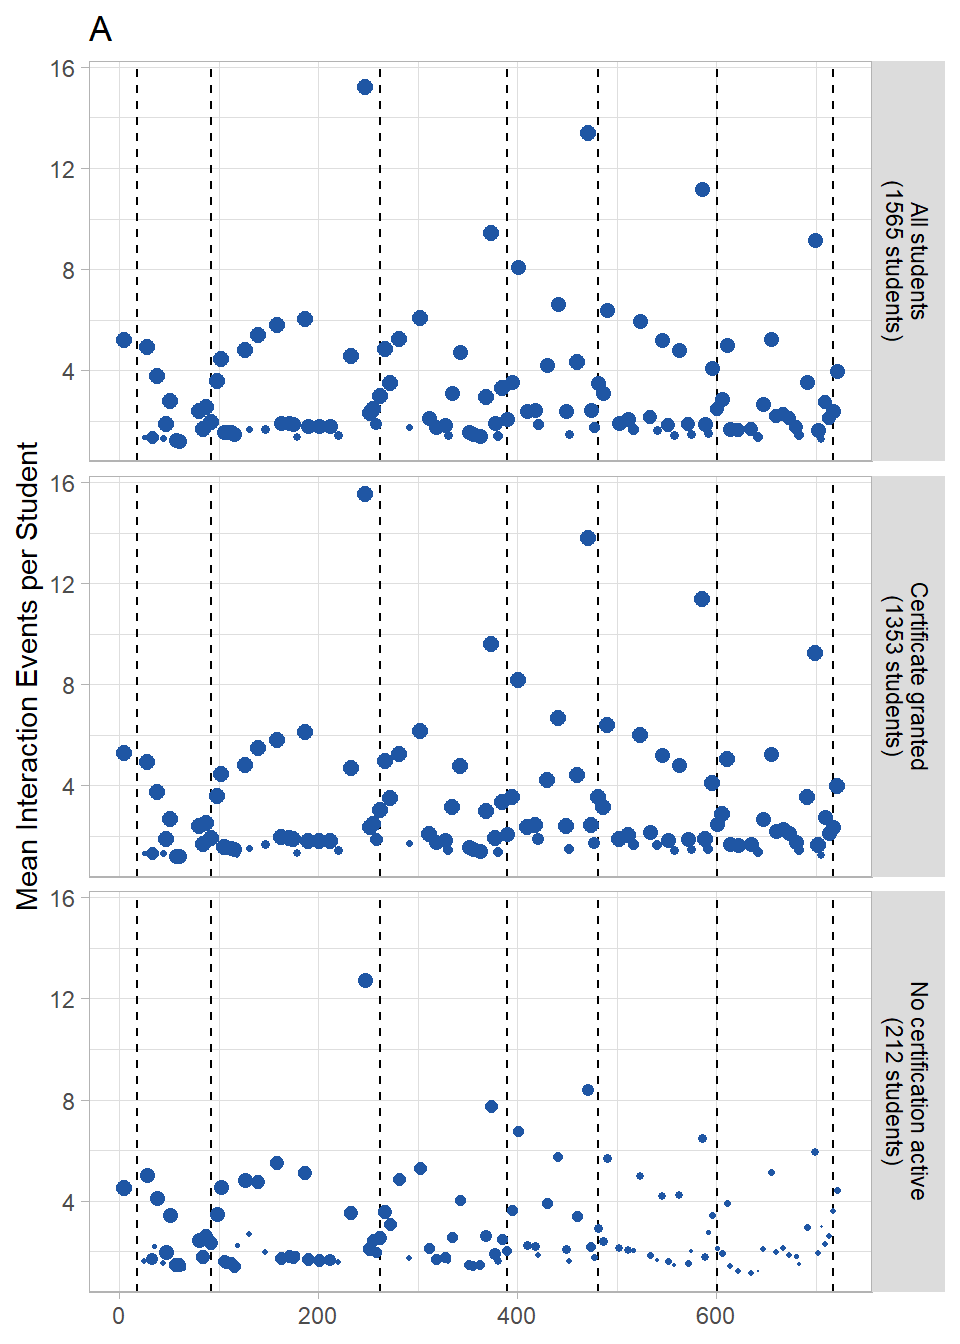
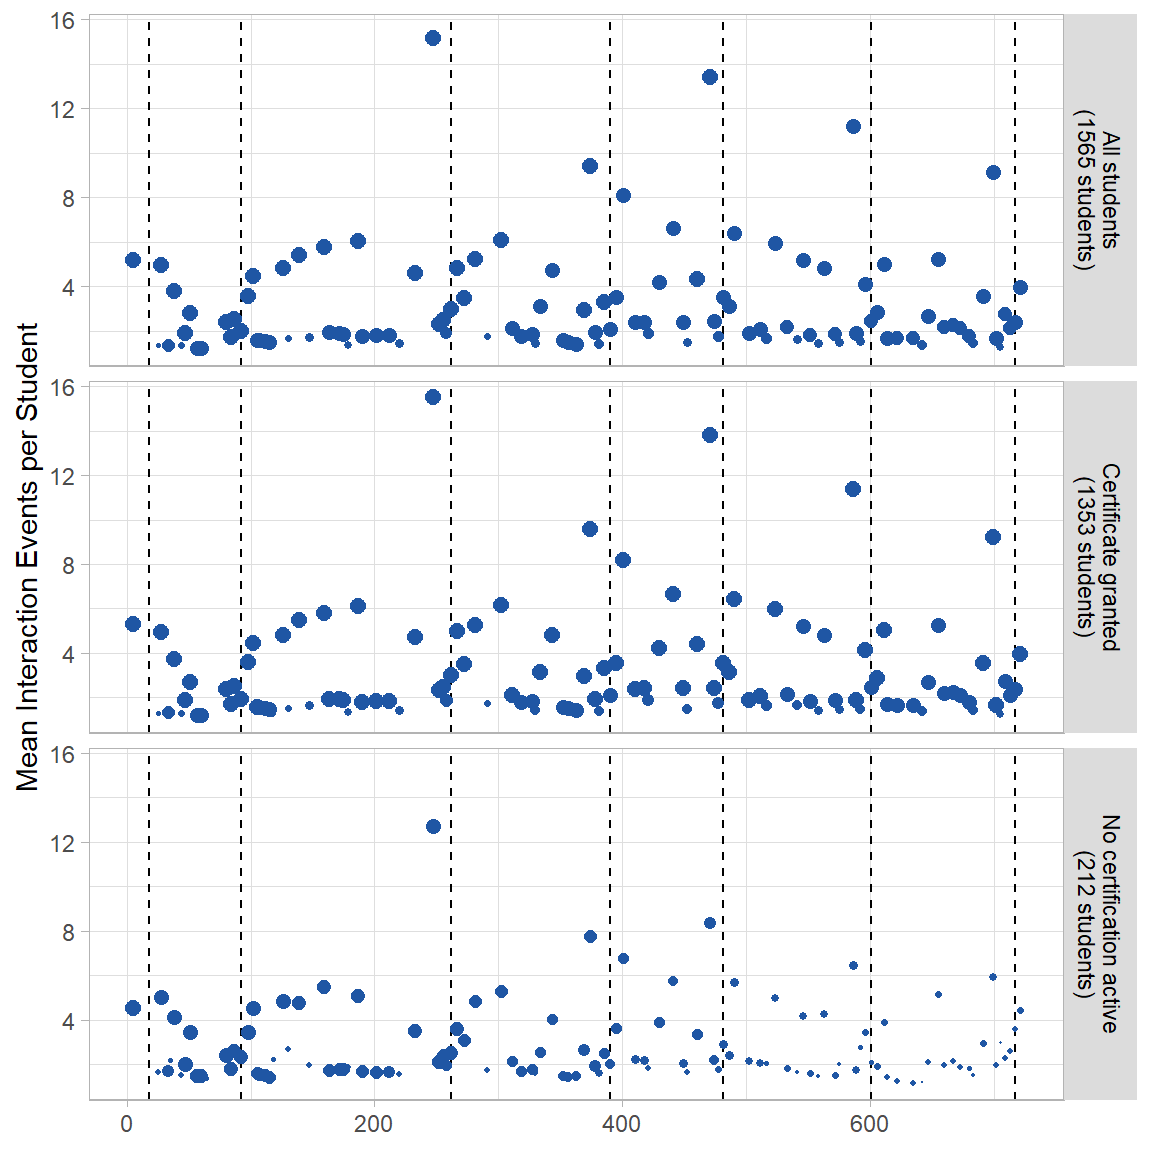
Updates fig 5

diff --git a/docs/edx-8-figure4and5.html b/docs/edx-8-figure4and5.html
@@ -550,7 +550,7 @@ for(i in 1:nrow(vline)){
         geom_point(aes(colour=module.type, size=val1)) +
         scale_size(range = c(0, 2.5)) +
         scale_colour_manual(values=modColors[1]) +
-        labs(y=&quot;Mean Interaction Events per Student&quot;, title=&quot;A&quot;) +
+        labs(y=&quot;Mean Interaction Events per Student&quot;) +
         theme(plot.title = element_text(hjust = 0),
               legend.position=&quot;none&quot;, 
               strip.background = element_rect(fill=strip),
@@ -558,7 +558,7 @@ for(i in 1:nrow(vline)){
               axis.title.x = element_blank()) +
         facet_wrap( ~ var1, nrow=4, strip.position=&quot;right&quot;, labeller =userGrps2)
 p1</code></pre>
-<p><img src="edx-8-figure4and5_files/figure-html/figure%205A-1.png" width="480" /></p>
+<p><img src="edx-8-figure4and5_files/figure-html/figure%205A-1.png" width="576" /></p>
 </div>
 <div id="fig-5b-mean-number-of-events-per-video-module" class="section level2">
 <h2>Fig 5B Mean Number of Events per Video Module</h2>
@@ -567,7 +567,6 @@ p1</code></pre>
         geom_point(aes(colour=module.type, size=val1)) +
         scale_size(range = c(0, 2.5)) +
         scale_colour_manual(values=modColors[4]) +
-        labs(title=&quot;B&quot;) +
         theme(plot.title = element_text(hjust = 0),
               legend.position=&quot;none&quot;, 
               strip.background = element_rect(fill=strip),
@@ -575,7 +574,7 @@ p1</code></pre>
               axis.title = element_blank()) +
         facet_wrap( ~ var1, nrow=4, strip.position=&quot;right&quot;, labeller =userGrps2)
 p2</code></pre>
-<p><img src="edx-8-figure4and5_files/figure-html/figure%205B-1.png" width="480" /></p>
+<p><img src="edx-8-figure4and5_files/figure-html/figure%205B-1.png" width="576" /></p>
 </div>
 <div id="fig-5c-mean-number-of-events-per-problem-module" class="section level2">
 <h2>Fig 5C Mean Number of Events per Problem Module</h2>
@@ -585,15 +584,14 @@ p2</code></pre>
         scale_size(range = c(0, 2.5)) +
         scale_colour_manual(values=modColors[3]) +
         labs(x=&quot;Course Module Sequence&quot;, 
-             y=&quot;Mean Interaction Events per Student&quot;,
-             title=&quot;C&quot;)+
+             y=&quot;Mean Interaction Events per Student&quot;)+
         theme(plot.title = element_text(hjust = 0),
              legend.position=&quot;none&quot;, 
              strip.background = element_rect(fill=strip),
              strip.text=element_text(color = &quot;Black&quot;)) +
         facet_wrap( ~ var1, nrow=4, strip.position=&quot;right&quot;, labeller =userGrps2)
 p3</code></pre>
-<p><img src="edx-8-figure4and5_files/figure-html/figure%205C-1.png" width="480" /></p>
+<p><img src="edx-8-figure4and5_files/figure-html/figure%205C-1.png" width="576" /></p>
 </div>
 <div id="fig-5d-mean-number-of-events-per-open-assessment-module" class="section level2">
 <h2>Fig 5D Mean Number of Events per Open Assessment Module</h2>
@@ -602,7 +600,7 @@ p3</code></pre>
         geom_point(aes(colour=module.type, size=val1)) +
         scale_size(range = c(0, 2.5)) +
         scale_colour_manual(values=modColors[2]) +
-        labs(x=&quot;Course Module Sequence&quot;,title=&quot;D&quot;) +
+        labs(x=&quot;Course Module Sequence&quot;) +
         theme(plot.title = element_text(hjust = 0),
               legend.position=&quot;none&quot;, 
               strip.background = element_rect(fill=strip),
@@ -610,12 +608,15 @@ p3</code></pre>
               axis.title.y = element_blank()) +
         facet_wrap( ~ var1, nrow=4, strip.position=&quot;right&quot;, labeller =userGrps2)
 p4</code></pre>
-<p><img src="edx-8-figure4and5_files/figure-html/figure%205D-1.png" width="480" /></p>
+<p><img src="edx-8-figure4and5_files/figure-html/figure%205D-1.png" width="576" /></p>
 </div>
 <div id="fig-5-composite" class="section level2">
 <h2>Fig 5 Composite</h2>
 <pre class="r"><code>#Final Layout
-multiplot(p1,p3,p2,p4,cols=2)</code></pre>
+multiplot(p1 + ggtitle(&quot;A&quot;)+ theme(plot.title = element_text(hjust = 0)),
+          p3 + ggtitle(&quot;B&quot;)+ theme(plot.title = element_text(hjust = 0)),
+          p2 + ggtitle(&quot;C&quot;)+ theme(plot.title = element_text(hjust = 0)),
+          p4 + ggtitle(&quot;D&quot;)+ theme(plot.title = element_text(hjust = 0)),cols=2)</code></pre>
 <p><img src="edx-8-figure4and5_files/figure-html/figure%205-1.png" width="672" /></p>
 </div>
 </div>
